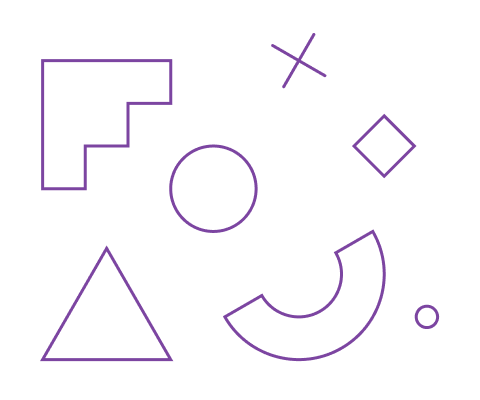
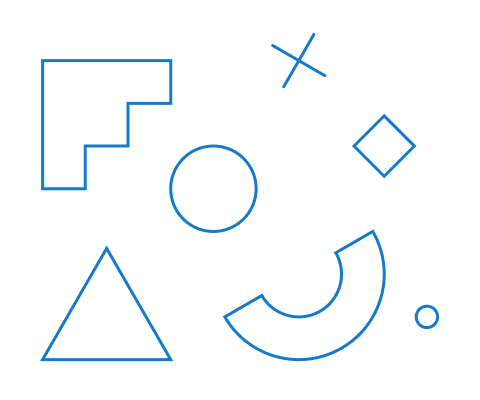
refactor: set dark primary color to 'blue'

diff --git a/src/styles/global.css b/src/styles/global.css
@@ -18,11 +18,11 @@
   --color-orange-300: oklch(0.6695 0.2183 30.08);
   --color-peach-100: oklch(0.9649 0.018 39.4);
   --color-peach-200: oklch(0.9304 0.0367 39.32);
-  --color-aubergine-100: oklch(0.498 0.1488 309.64);
-  --color-aubergine-200: oklch(0.4582 0.1366 316.83);
-  --color-aubergine-300: oklch(0.418 0.1218 323.21);
-  --color-plum-100: oklch(0.3787 0.1073 329.55);
-  --color-plum-200: oklch(0.3382 0.0918 334.97);
+  --color-azure-100: oklch(0.5676 0.148 248.82);
+  --color-azure-200: oklch(0.5257 0.1352 248.43);
+  --color-azure-300: oklch(0.4777 0.1226 248.48);
+  --color-cobalt-100: oklch(0.3867 0.1085 268.94);
+  --color-cobalt-200: oklch(0.3552 0.0969 269.49);
   --color-error: oklch(0.6296 0.2557 25.81);
 
   --font-sans: 'Azeret Mono Variable';
@@ -79,13 +79,13 @@
   [data-theme='dark'] {
     --color-background: var(--color-base-900);
     --color-foreground: var(--color-base-100);
-    --color-primary: var(--color-aubergine-100);
-    --color-primary-hover: var(--color-aubergine-200);
-    --color-primary-active: var(--color-aubergine-300);
+    --color-primary: var(--color-azure-100);
+    --color-primary-hover: var(--color-azure-200);
+    --color-primary-active: var(--color-azure-300);
     --color-primary-foreground: var(--color-base-100);
     --color-accent: var(--color-base-900);
-    --color-accent-hover: var(--color-plum-200);
-    --color-accent-active: var(--color-plum-300);
+    --color-accent-hover: var(--color-cobalt-200);
+    --color-accent-active: var(--color-cobalt-300);
     --color-accent-foreground: var(--color-base-100);
     --color-neutral: var(--color-base-100);
     --color-neutral-hover: var(--color-base-200);
